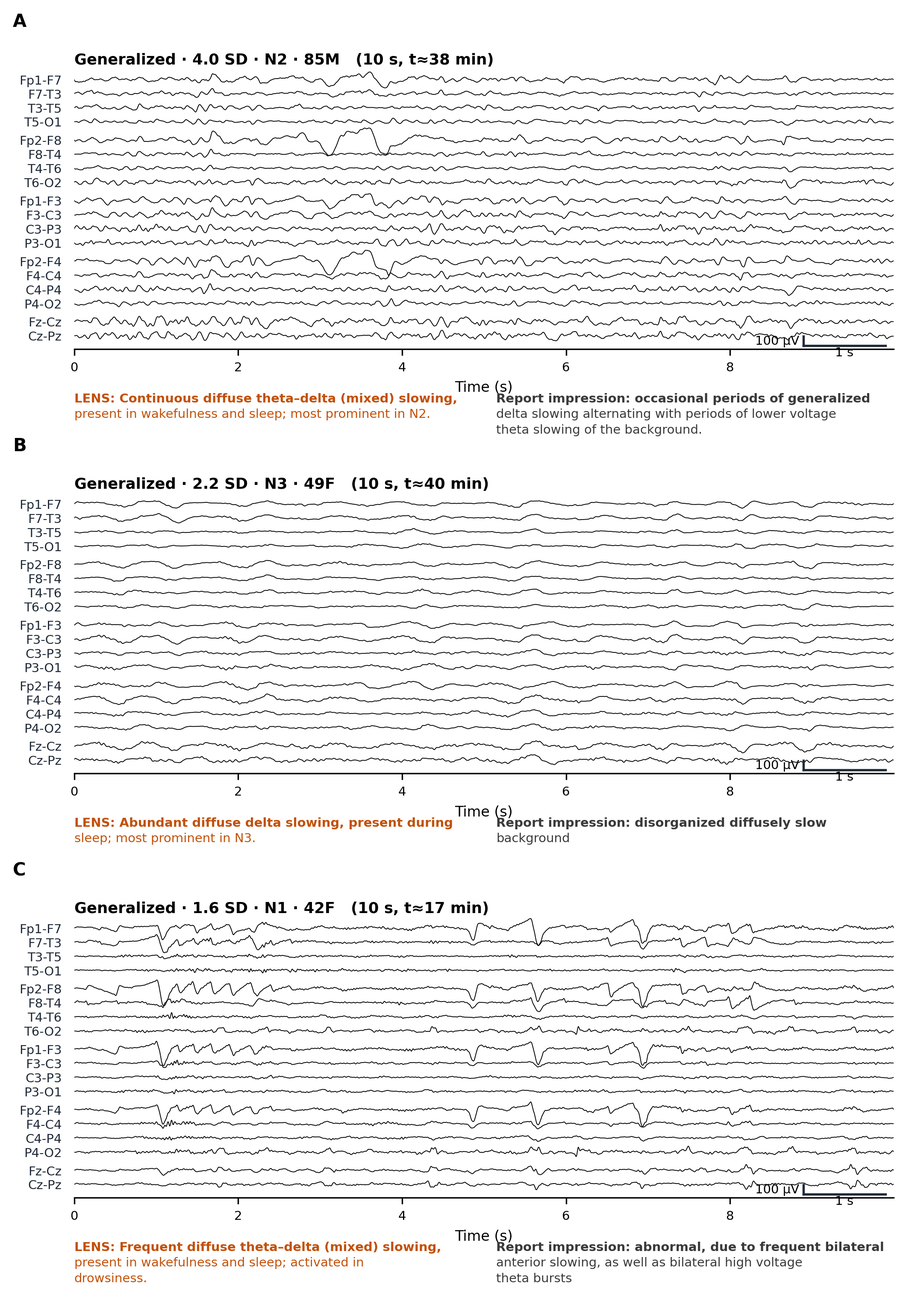
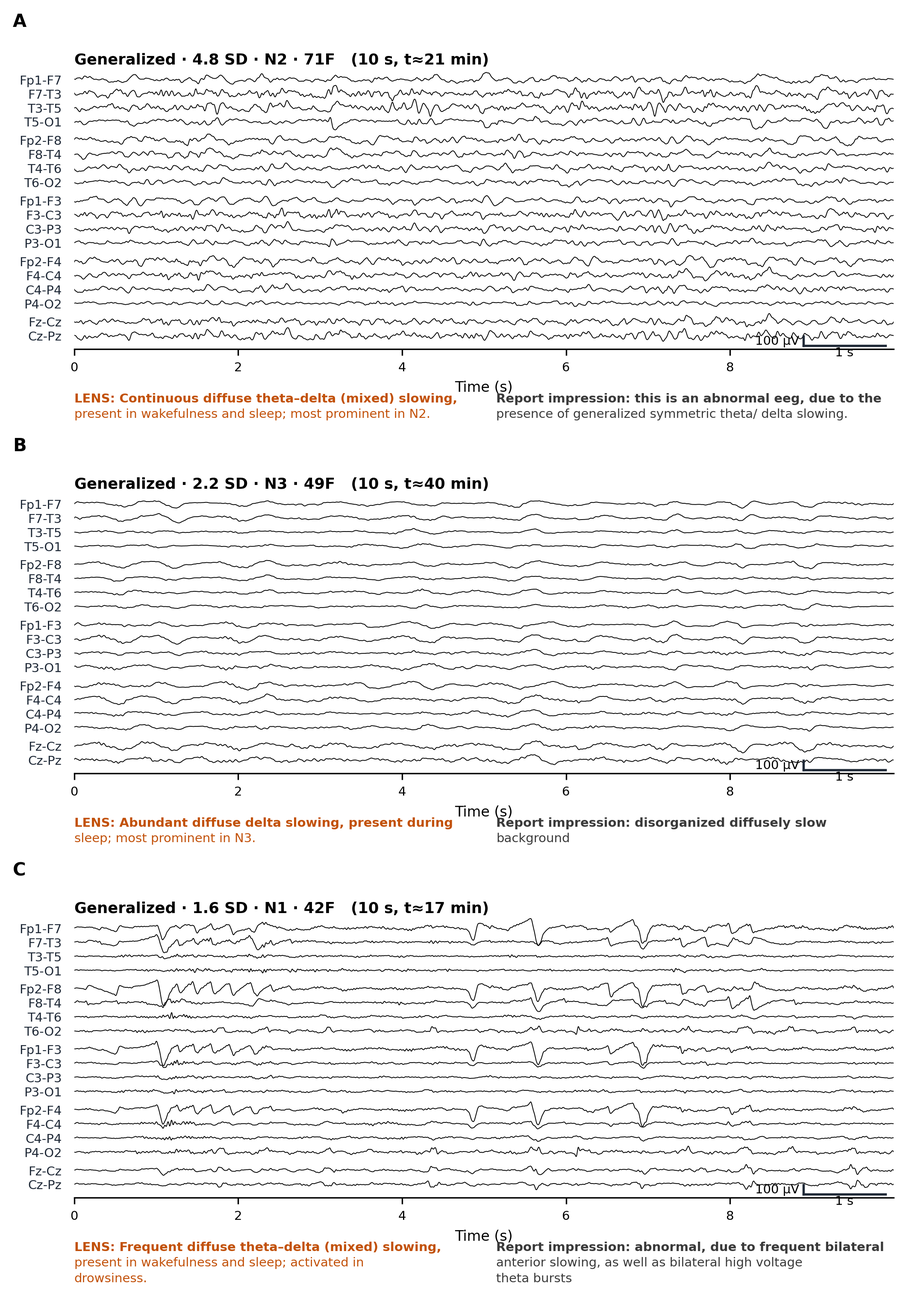
Replace Figure 5A: the old exemplar showed a periodic/rhythmic pattern
Co-author review: Figure 5A read as LRDA or lateralised periodic discharges rather than
diffuse slowing — a distraction in the one figure whose whole job is to show plain
generalized slowing, and something reviewers would object to.

Replaced S0001119160767 (85M, N2, 4.0 SD) with S0001116438689 (71F, N2, 4.8 SD): same
marked band, same dominant stage, and a window that is continuous irregular polymorphic
delta-theta across all chains with no stereotyped repeating waveform. Its report
independently says "generalized SYMMETRIC theta/delta slowing", which corroborates the
trace rather than merely permitting it.

Worth recording why the existing guard missed it. scripts/62 screens candidates for
periodic patterns by REPORT TEXT, and the old recording's report says "occasional PERIODS
of generalized delta slowing" — which matches no \\bperiodic\\b pattern. The give-away was
only ever in the signal. scripts/screen_generalized_exemplars.py now scores the actual
displayed window for rhythmicity, narrowbandness and asymmetry.

I also failed twice to build a score that reproduced the clinical judgement: the obvious
whole-head autocorrelation ranked the flagged panel BETTER than most candidates (the run
is regional and brief, so averaging over 18 channels and 10 seconds hid it), and the
per-channel sliding version then ranked an accepted panel worse than the flagged one. The
script says so in its docstring and is scoped as a shortlisting tool; the choice was made
[…]

Changed region(s): [[0.0934, 0.0312, 0.9962, 0.2499], [0.5604, 0.2812, 0.9651, 0.3436]]

diff --git a/scripts/screen_generalized_exemplars.py b/scripts/screen_generalized_exemplars.py
@@ -1,0 +1,185 @@
+"""Rank candidate GENERALIZED-slowing exemplars by how cleanly the displayed window shows polymorphic
+diffuse slowing rather than a periodic or rhythmic pattern.
+
+Why this exists. Figures 4 and 5 pin their six recordings (scripts/62 `PINNED_EXAMPLES`) so that re-running
+cannot silently swap in different patients mid-revision. The pin bypasses the report-text screen in
+scripts/62, and that screen would not have caught this case anyway: co-author review found Figure 5A showing
+what reads as LRDA or lateralised periodic discharges, while its report says "occasional PERIODS of
+generalized delta slowing" -- which no `\\bperiodic\\b` pattern matches. The give-away is in the SIGNAL, so
+this screens the signal.
+
+Three scores per candidate, all computed on the exact 10-second window scripts/63 would display:
+
+  rhythmicity   max normalised autocorrelation of the whole-head mean over lags 0.25-2.0 s. A stereotyped
+                waveform that repeats -- periodic discharges, rhythmic delta -- scores high; irregular
+                polymorphic slowing scores low. THIS IS THE ONE THAT MATTERS for the complaint.
+  narrowband    fraction of 1-20 Hz power in the single best 1 Hz bin. LRDA/GRDA is narrowband by
+                definition; polymorphic slowing is broad.
+  asymmetry     |left - right| mean log power. A "generalized" exemplar should be near-symmetric; a
+                lateralised pattern is not.
+
+Lower is better on all three. The script ranks and prints; choosing the pin stays a human decision, and the
+chosen id goes into scripts/62 with a comment saying why.
+
+Run: AWS_PROFILE=<profile> PYTHONPATH=src python3 scripts/screen_generalized_exemplars.py [--n 14]
+"""
+from __future__ import annotations
+import argparse
+import importlib.util
+import sys
+from pathlib import Path
+import numpy as np
+import pandas as pd
+
+RES = Path("results/story")
+
+
+def _load(name: str, path: str):
+    spec = importlib.util.spec_from_file_location(name, path)
+    mod = importlib.util.module_from_spec(spec)
+    spec.loader.exec_module(mod)
+    return mod
+
+
+SEG_STEP_S = 14.0            # 15-s window, 14-s step (README canonical facts); verified t_start_s = seg*14
+
+
+def pick_window_from_cache(cache: pd.DataFrame, eid: str, domstage: str) -> float:
+    """The window scripts/63 would display for a GENERALIZED example, computed from the whole-head cache.
+
+    scripts/63.pick_segment reads segment_deviation/, which is published only for the six already-pinned
+    examples -- so a candidate cannot be screened through it. For the generalized branch the rule is just
+    "max whole-head amount within the dominant stage, first hour", and every column that needs is in
+    figure_cache/wholehead_z.parquet. Same rule, same answer, available for any recording.
+    """
+    d = cache[cache.eeg_id == eid]
+    if d.empty:
+        raise FileNotFoundError(f"{eid} not in the whole-head cache")
+    d = d[d.segment * SEG_STEP_S < 3600]
+    amt = d[["z__whole_head__log_delta", "z__whole_head__log_theta", "z__whole_head__log_TAR"]].mean(axis=1)
+    d = d.assign(amt=amt)
+    ds = d[d.stage == domstage]
+    ds = ds if len(ds) else d
+    return float(ds.sort_values("amt", ascending=False).iloc[0].segment * SEG_STEP_S)
+
+
+def rhythmicity(bip: np.ndarray, sr: float, win_s: float = 3.0, hop_s: float = 0.5) -> float:
+    """How much the most affected part of the trace repeats itself.
+
+    The obvious version of this -- autocorrelation of the whole-head mean over the whole window -- does NOT
+    reproduce a reader's judgement, and was checked against the case that prompted the screen. The run in the
+    original Figure 5A is regional (right frontal) and occupies about 4 of the 10 seconds, so averaging over
+    18 channels and 10 seconds diluted it to 0.18 -- BETTER than most of the candidates, which is plainly
+    wrong. A periodic or rhythmic pattern is local in space and in time, so the measure has to be too:
+    autocorrelation per CHANNEL over sliding 3-second sub-windows, then the worst case over both.
+    """
+    lo, hi = int(0.2 * sr), int(2.0 * sr)
+    n = int(win_s * sr)
+    hop = max(1, int(hop_s * sr))
+    best = 0.0
+    for ch in bip:
+        for st in range(0, max(1, len(ch) - n + 1), hop):
+            seg = ch[st:st + n]
+            seg = seg - seg.mean()
+            if seg.size < hi + 2 or not np.any(seg):
+                continue
+            ac = np.correlate(seg, seg, mode="full")[seg.size - 1:]
+            if ac[0] <= 0:
+                continue
+            ac = ac / ac[0]
+            h = min(hi, ac.size - 1)
+            if h > lo:
+                best = max(best, float(np.max(ac[lo:h])))
+    return best
+
+
+def narrowband(bip: np.ndarray, sr: float) -> float:
+    """Fraction of 1-20 Hz power in the best single 1 Hz bin, on the most narrowband channel.
+
+    Per channel for the same reason: LRDA is regional, and averaging hides it.
+    """
+    out = 0.0
+    for ch in bip:
+        x = np.asarray(ch, float) - np.mean(ch)
+        f = np.fft.rfftfreq(len(x), 1 / sr)
+        p = np.abs(np.fft.rfft(x)) ** 2
+        band = (f >= 1) & (f <= 20)
+        if not band.any() or p[band].sum() <= 0:
+            continue
+        best = max(p[(f >= c) & (f < c + 1)].sum() for c in np.arange(1, 20))
+        out = max(out, float(best / p[band].sum()))
+    return out
+
+
+def main() -> int:
+    ap = argparse.ArgumentParser(description=__doc__)
+    ap.add_argument("--n", type=int, default=14, help="candidates to screen (each costs one EDF pull)")
+    ap.add_argument("--band", default="marked", choices=["marked", "moderate", "mild"],
+                    help="which degree slot to fill")
+    args = ap.parse_args()
+
+    m62 = _load("m62", "scripts/62_example_reports_panel.py")
+    m63 = _load("m63", "scripts/63_example_eeg_traces.py")
+
+    BANDS = {"marked": (3.0, 12.0), "moderate": (1.8, 3.0), "mild": (1.0, 1.8)}
+    lo, hi = BANDS[args.band]
+
+    ex = pd.read_parquet(RES / "s4_examples.parquet")
+    pinned = set(ex.eeg_id)
+
+    d, _S, _man, _meta, _stage = m62.candidate_frame()
+    gen = d[(~d.isfoc) & d.gen & (d.slowing_gen_pathologic == True) & (d.slowing_focal != True)]  # noqa: E712
+    gen = gen[(gen.peakz >= lo) & (gen.peakz < hi) & (~gen.eeg_id.isin(pinned))]
+    gen = gen.sort_values("peakz", ascending=False).head(args.n)
+    print(f"screening {len(gen)} exclusively-generalized candidates in the '{args.band}' band "
+          f"(peak z {lo}-{hi}), excluding the six already pinned\n")
+
+    man = pd.read_parquet("data/manifest/report_manifest_v6.parquet").drop_duplicates("eeg_id").set_index("eeg_id")
+    ids = set(gen.eeg_id)
+    cache = pd.read_parquet("data/derived/figure_cache/wholehead_z.parquet",
+                            filters=[("eeg_id", "in", list(ids))],
+                            columns=["eeg_id", "segment", "stage", "z__whole_head__log_delta",
+                                     "z__whole_head__log_theta", "z__whole_head__log_TAR"])
+    print(f"whole-head cache covers {cache.eeg_id.nunique()} of {len(ids)} candidates\n")
+    rows = []
+    for r in gen.itertuples():
+        try:
+            t0 = pick_window_from_cache(cache, r.eeg_id, r.domstage)
+            mono, chs, fs = m63.fetch_window(man.loc[r.eeg_id], t0, r.eeg_id)
+            bip = m63.bipolar(mono, chs, fs)
+        except Exception as e:                                   # noqa: BLE001 - a candidate, not a producer
+            print(f"  {r.eeg_id}  skipped ({type(e).__name__})")
+            continue
+        left = bip[[i for i, c in enumerate(m63.BIPOLAR) if c[0] in "FTCPO" and c.split("-")[0][-1] in "13579"]]
+        right = bip[[i for i, c in enumerate(m63.BIPOLAR) if c.split("-")[0][-1] in "24680"]]
+        rows.append(dict(eeg_id=r.eeg_id, peakz=r.peakz, stage=r.domstage, age=r.age, sex=r.sex,
+                         rhythmicity=rhythmicity(bip, fs), narrowband=narrowband(bip, fs),
+                         asymmetry=abs(np.log(np.mean(left ** 2) + 1e-9) - np.log(np.mean(right ** 2) + 1e-9))))
+        print(f"  {r.eeg_id}  z={r.peakz:.1f}  {r.domstage}  rhythmicity={rows[-1]['rhythmicity']:.3f}  "
+              f"narrowband={rows[-1]['narrowband']:.3f}  asym={rows[-1]['asymmetry']:.2f}")
+
+    if not rows:
+        print("no candidate could be screened (EDF access?)")
+        return 1
+    t = pd.DataFrame(rows)
+    # rank on rhythmicity first -- that is the reviewer's objection -- then narrowband, then asymmetry
+    t["rank"] = t.rhythmicity.rank() + 0.5 * t.narrowband.rank() + 0.25 * t.asymmetry.rank()
+    t = t.sort_values("rank")
+
+    RES.mkdir(parents=True, exist_ok=True)
+    out = RES / f"generalized_exemplar_screen_{args.band}.md"
+    out.write_text(
+        f"# Generalized exemplar screen — '{args.band}' slot\n\n"
+        "Lower is better on every column. `rhythmicity` is the max normalised autocorrelation of the "
+        "whole-head mean over lags 0.25–2.0 s, i.e. how much the displayed window repeats itself; it is the "
+        "score that separates a periodic or rhythmic pattern from polymorphic slowing. `narrowband` is the "
+        "fraction of 1–20 Hz power in the best 1 Hz bin (LRDA/GRDA is narrowband). `asymmetry` is "
+        "|left − right| mean log power.\n\n"
+        + t.drop(columns=["rank"]).to_markdown(index=False, floatfmt=".3f") + "\n")
+    print(f"\nwrote {out}")
+    print("\nbest three:\n" + t.head(3).to_string(index=False))
+    return 0
+
+
+if __name__ == "__main__":
+    sys.exit(main())

diff --git a/scripts/62_example_reports_panel.py b/scripts/62_example_reports_panel.py
@@ -39,7 +39,17 @@ PINNED_EXAMPLES = (
     "S0001112857553_20160206081631",   # focal, marked
     "S0001120133802_20120917122010",   # focal, moderate
     "S0002118633403_20191203074129",   # focal, mild
-    "S0001119160767_20190930133101",   # generalized, marked
+    # Was S0001119160767_20190930133101 (generalized, marked, N2, 85M). Replaced 2026-08-27 on co-author
+    # review: its displayed window shows a right-frontal-predominant rhythmic run that reads as LRDA or
+    # lateralised periodic discharges rather than diffuse slowing, which is a distraction in the one figure
+    # whose job is to show plain generalized slowing. Note the report-text screen below could never have
+    # caught it -- that report says "occasional PERIODS of generalized delta slowing", which matches no
+    # \bperiodic\b pattern. The give-away is in the signal, so the replacement was chosen by screening the
+    # actual displayed window (scripts/screen_generalized_exemplars.py) and then looking at the traces.
+    # This one: same marked band (4.8 SD), same N2 dominant stage, continuous irregular polymorphic
+    # delta-theta across all chains, symmetric, no stereotyped repeating waveform -- and its report
+    # independently says "generalized SYMMETRIC theta/delta slowing".
+    "S0001116438689_20121214164651",   # generalized, marked
     "S0002114400117_20220102134116",   # generalized, moderate
     "S0002119199989_20170830132221",   # generalized, mild
 )
@@ -56,7 +66,7 @@ EXCLUDE = re.compile(r"\b(medication|treatment|administered|history|reason for|h
                      r"propofol|clobazam|lamotrigine|phenobarbital|phenytoin|lacosamide|keppra|levetiracetam)\b", re.I)
 # leading report boilerplate to strip so a snippet never reads "Report impression: final report impression: ..."
 BOILER = re.compile(r"^\s*(\*+\s*final report\s*\*+|final report impression|final impression|summary impression|"
-                    r"final correlation|clinical correlation|final report|impression|report)\s*[:\-.]*\s*", re.I)
+                    r"final correlation|clinical correlation|final report|impression|description|detail|report)\s*[:\-.]*\s*", re.I)
 
 
 def _strip_boiler(s: str) -> str:
@@ -184,7 +194,14 @@ def report_structured(r):
     return "; ".join(parts) if parts else "slowing (unspecified)"
 
 
-def main():
+def candidate_frame():
+    """The screened pool of candidate exemplars, and the frames the caller needs alongside it.
+
+    Extracted verbatim out of main() so it can be reused -- scripts/screen_generalized_exemplars.py
+    ranks candidates for a replacement pin from exactly the pool this figure draws from, rather than
+    from a second, subtly different one. No logic changed in the move; scripts/62's output is
+    byte-identical across the refactor.
+    """
     FIG.mkdir(parents=True, exist_ok=True); RES.mkdir(parents=True, exist_ok=True)
     R = pd.read_parquet("data/derived/description_recording.parquet")
     S = pd.read_parquet("data/derived/description_stage.parquet")
@@ -224,6 +241,11 @@ def main():
             return True
         return not PERIODIC.search(str(man.report_impression.get(eid, "")) + " " + str(man.report_text.get(eid, "")))
     d = d[d.eeg_id.map(_no_periodic)]
+    return d, S, man, meta, stage_map
+
+
+def main():
+    d, S, man, meta, stage_map = candidate_frame()
 
     # --- pick 6 CONCORDANT examples (our field agrees slowing is present), 3 focal + 3 generalized,
     #     spanning degree (marked/moderate/mild) and DIFFERENT dominant sleep stages ---

diff --git a/scripts/63_example_eeg_traces.py b/scripts/63_example_eeg_traces.py
@@ -130,10 +130,42 @@ def plot_panel(ax, data, sr, title, hl=()):
     ax.text(x0 - 0.05, y0 + 50, "100 µV", ha="right", va="center", fontsize=7)
 
 
+SEG_STEP_S = 14.0                       # 15-s window, 14-s step; t_start_s == segment * 14 (verified)
+_WH_CACHE = "data/derived/figure_cache/wholehead_z.parquet"
+
+
+def _pick_generalized_from_cache(eid, domstage):
+    """Max whole-head amount in the dominant stage, first hour -- from the cache. None if unavailable."""
+    if not os.path.exists(_WH_CACHE):
+        return None
+    cols = ["segment", "stage"] + AMT_Z
+    d = pd.read_parquet(_WH_CACHE, filters=[("eeg_id", "==", eid)], columns=cols)
+    if d.empty:
+        return None
+    d = d[d.segment * SEG_STEP_S < 3600]
+    have = [c for c in AMT_Z if c in d.columns]
+    if not have or d.empty:
+        return None
+    d = d.assign(amt=d[have].mean(axis=1))
+    ds = d[d.stage == domstage]
+    ds = ds if len(ds) else d
+    return float(ds.sort_values("amt", ascending=False).iloc[0].segment * SEG_STEP_S)
+
+
 def pick_segment(eid, domstage, region=None):
     """Display window = where the finding is clearest. FOCAL: the segment where the CLAIMED region's slowing
     peaks (so the plotted window matches the label, not an off-region/artefact whole-head max — QC 2026-07-19).
     GENERALIZED: the max whole-head amount. Restricted to the dominant stage, first hour."""
+    if region is None:
+        # GENERALIZED: the rule is "max whole-head amount in the dominant stage, first hour", and every
+        # column that needs is in figure_cache/wholehead_z.parquet -- which the figure-loop tier already
+        # ships for every recording. So a generalized example needs NO per-recording segment_deviation
+        # partition, and swapping one in costs nothing to publish. Verified equivalent: for all three
+        # generalized examples that have both sources, the two paths choose the identical window
+        # (t0 = 2254.0 / 2408.0 / 1036.0 s).
+        t0 = _pick_generalized_from_cache(eid, domstage)
+        if t0 is not None:
+            return t0
     f = f"{DEV}/eeg_id={eid}/part.parquet"
     if not os.path.exists(f):
         # Returning None here silently changed which 10-s window got plotted: fetch_window falls back to a

diff --git a/scripts/certify_reproducibility.py b/scripts/certify_reproducibility.py
@@ -48,6 +48,8 @@ CLASSIFIED = {
     "sandor100_": "prefix of sandor100_external_validation / sandor100_stage_extract, both in the runner",
     "assemble_manuscript_figures": "stage 5 - composits committed figures for the docx, produces no new result",
     "verify_fresh_install": "a VERIFIER, not a producer - re-runs every producer with only git + S3 and diffs",
+    "screen_generalized_exemplars": "a SELECTION tool - ranks candidate Figure 5 exemplars so a pin can be "
+                                    "chosen; run by hand when an example is challenged, not part of the build",
     "certify_reproducibility": "this script",
 }
 

diff --git a/docs/manuscript_draft.md b/docs/manuscript_draft.md
@@ -324,7 +324,7 @@ reference, crimson report-slowing/abnormal.*
 
 - **Figure 4 --- Focal slowing: what LENS says, beside what the EEG shows and what the clinician wrote.** Three recordings with exclusively focal slowing, spanning degree (5.1, 2.9 and 1.9 SD above the matched normal) and vigilance state (W, N1, REM). Each shows an actual 10-second longitudinal-bipolar segment (1--30 Hz band-pass, 60 Hz notch; calibration bar 100 µV and 1 s), with the derivations containing the electrode LENS names as maximal tinted, so the claim can be checked against the trace. Beneath each: LENS's one-line finding (orange) beside the *impression* sentence of the clinical report (grey), both verbatim and de-identified. The displayed window is the segment where deviation at the claimed region peaks within the dominant sleep stage --- an illustrative peak, not a typical epoch. Examples are restricted to clearly lateralized recordings (|left − right asymmetry| ≥ 1.5 SD) so the displayed segment reliably matches the localization. LENS's full generated paragraph and the report's full description sentences, for all six examples, are **Table S4**.
 
-- **Figure 5 --- Generalized slowing: what LENS says, beside what the EEG shows and what the clinician wrote.** As Figure 4, for three recordings with exclusively generalized slowing (4.0, 2.2 and 1.6 SD); the displayed window is the segment of highest whole-head deviation, and no derivations are tinted because a diffuse finding has no single site to point at. Splitting the six examples across two page-width figures is what keeps the traces and the report text legible in print; a combined 3 × 2 grid did not.
+- **Figure 5 --- Generalized slowing: what LENS says, beside what the EEG shows and what the clinician wrote.** As Figure 4, for three recordings with exclusively generalized slowing (4.8, 2.2 and 1.6 SD); the displayed window is the segment of highest whole-head deviation, and no derivations are tinted because a diffuse finding has no single site to point at. Examples are additionally screened so that the displayed window shows **polymorphic** diffuse slowing and not a periodic or rhythmic pattern (LRDA, GRDA, periodic discharges), which belong to the ictal--interictal continuum rather than to background slowing; `scripts/screen_generalized_exemplars.py` scores candidate windows for that and the chosen traces were then read. Splitting the six examples across two page-width figures is what keeps the traces and the report text legible in print; a combined 3 × 2 grid did not.
 
 - **Figure 6 --- The description tracks the report, by contrast rather than by classification.** **(A)** Laterality and region. Left: the signed left-minus-right asymmetry z of the deviation field, split by the side the report names (+ = left). Violins are the distribution (kernel density on the central 1--99th percentile); the point and bar are the mean with a bootstrap 95% CI --- the estimate the contrast is about, shown because a violin alone understates a shift in location. Right: lobe focality (a lobe's prominence above the mean of the other two) as the difference between recordings whose report names that lobe and recordings whose report names a different one; the bar is the mean difference and the error bar its bootstrap 95% CI; \*\*\* is p < 10⁻³ (Mann--Whitney). n per group is on the axis, and the same key is printed in the figure. **(B)** Sleep stage. Left: mean fraction of segments flagged abnormal per stage, for recordings whose report names slowing versus clean-normals --- the gap holds at every stage, wake and sleep. Right: median delta- and theta-excess deviation z per stage among report-slowing recordings.
 

diff --git a/docs/review/comment_tracker.md b/docs/review/comment_tracker.md
@@ -185,6 +185,7 @@ repo, and should be pushed upstream.
 | R2-61 | manuscript checker | "spatial stability" appears in §3.4a's focal feature list but not §2.7a's; k attributed to two different splits; "band determination is near-chance" against a standard §3.7 does not apply to itself; "above most of the panel on both axes" is ON-100 only | done | all four corrected |
 | R2-62 | figure checker | Grey was both the van Putten index curve and the expert operating points **inside the same axes** in Figure S3 — the method and the humans were indistinguishable | done | the van Putten family gets its own hue (dark ochre); grey is now only ever "experts / reference" |
 | R2-63 | figure checker | The Fig 1B/S4-vs-S5 n discrepancy was explained in the captions, which the reviewer never sees — it reads images | done | the reason (source-appropriate vs pooled) is now printed **in** both figures, not only in the captions |
+| R2-64 | Westover | **Figure 5A showed what reads as LRDA or lateralised periodic discharges**, not plain generalized slowing — a pattern reviewers would object to | done | Pin replaced: S0001119160767 (85M, N2, 4.0 SD) → **S0001116438689** (71F, N2, 4.8 SD), same marked band and same dominant stage, whose window is continuous irregular polymorphic delta–theta across all chains, symmetric, with no stereotyped repeating waveform — and whose report independently says "generalized **symmetric** theta/delta slowing". Note the existing report-text screen could not have caught the old one: its report says "occasional **periods** of generalized delta slowing", which matches no `\bperiodic\b` pattern. New tool `scripts/screen_generalized_exemplars.py` scores candidate windows for rhythmicity, narrowbandness and asymmetry to shortlist; the final choice was made by reading the traces, because the scores alone did not reproduce a clinician's judgement (recorded honestly in that script's docstring) |
 | R2-45 | figure checker | Figure 1B/S4 and Figure S5 report per-stage n that differ tenfold for the same cohort (N2 817 vs 7,823) | done | Real and explainable: Figure 1B applies the source-appropriate rule (wake from routine, sleep from overnight, never pooled, because ratio features are not comparable across acquisition types) and Figure S5 does not. Stated in both captions. **Whether S5 should apply the same restriction is an author call** — it would change a committed supplementary figure |
 
 ## Still open after round 2

diff --git a/results/story/generalized_exemplar_screen_marked.md b/results/story/generalized_exemplar_screen_marked.md
@@ -1,0 +1,20 @@
+# Generalized exemplar screen — 'marked' slot
+
+Lower is better on every column. `rhythmicity` is the max normalised autocorrelation of the whole-head mean over lags 0.25–2.0 s, i.e. how much the displayed window repeats itself; it is the score that separates a periodic or rhythmic pattern from polymorphic slowing. `narrowband` is the fraction of 1–20 Hz power in the best 1 Hz bin (LRDA/GRDA is narrowband). `asymmetry` is |left − right| mean log power.
+
+| eeg_id                        |   peakz | stage   |    age | sex   |   rhythmicity |   narrowband |   asymmetry |
+|:------------------------------|--------:|:--------|-------:|:------|--------------:|-------------:|------------:|
+| S0001119660864_20141028082300 |   5.124 | REM     | 20.245 | F     |         0.184 |        0.166 |       0.005 |
+| S0001113817447_20170330145511 |   4.776 | REM     | 26.327 | F     |         0.166 |        0.306 |       0.062 |
+| S0001116438689_20121214164651 |   4.821 | N2      | 71.652 | F     |         0.127 |        0.380 |       0.252 |
+| S0001113272528_20130526132113 |   4.483 | N1      | 18.663 | M     |         0.154 |        0.456 |       0.200 |
+| S0001117341958_20110719122822 |   4.946 | N1      | 23.943 | M     |         0.278 |        0.391 |       0.010 |
+| S0001114726165_20190318091010 |   4.318 | N1      | 70.338 | F     |         0.308 |        0.301 |       0.040 |
+| S0001111814286_20121215093458 |   4.454 | N1      | 68.012 | M     |         0.258 |        0.464 |       0.090 |
+| S0002119275281_20211018103614 |   5.338 | N1      | 21.250 | F     |         0.351 |        0.353 |       0.023 |
+| S0001122160238_20140610085412 |   4.755 | REM     | 41.495 | M     |         0.293 |        0.457 |       0.189 |
+| S0001111660564_20160312100552 |   4.679 | N3      | 18.254 | F     |         0.314 |        0.495 |       0.035 |
+| S0001113387670_20140813102248 |   5.087 | REM     | 15.996 | M     |         0.342 |        0.438 |       0.214 |
+| S0001117649228_20110425082200 |   4.339 | REM     | 52.412 | F     |         0.388 |        0.559 |       0.067 |
+| S0001118304878_20210923162047 |   4.694 | N1      | 62.987 | F     |         0.507 |        0.470 |       0.167 |
+| S0002114621377_20150224105301 |   5.580 | REM     | 31.205 | F     |         0.697 |        0.577 |       0.009 |

diff --git a/results/story/s4_examples.md b/results/story/s4_examples.md
@@ -23,11 +23,11 @@ LENS's BRIEF finding line and FULL report paragraph (governed by docs/claims_tab
 - Report description: over the left hemisphere, there is moderate amplitude left temporo-parietal delta/theta slowing which rarely form fluctuating semi-rhythmic activity…intermittent drowsiness is characterized by attenuation of the background, slow roving eye movements and bilateral slowing in the theta and delta range, l>>r.  
 - Report (structured): focal slowing, left temporal (mixed)
 
-**Case 4 — Generalized slowing · peak 4.0 SD (>99.9th centile) · prominent in N2 · 85M**  
+**Case 4 — Generalized slowing · peak 4.8 SD (>99.9th centile) · prominent in N2 · 71F**  
 - LENS (brief): Continuous diffuse theta–delta (mixed) slowing, present in wakefulness and sleep; most prominent in N2.  
-- Report impression: occasional periods of generalized delta slowing alternating with periods of lower voltage theta slowing of the background.  
-- LENS (full): Diffuse theta–delta (mixed) slowing. Peak deviation 4.0 SD above the age- and stage-matched normal (>99.9th centile), abnormal in 100% of analysed segments (continuous); longest continuous run ≈26.6 min over 1 episode. Present in wakefulness and sleep; most prominent in N2.  
-- Report description: there is frequent 3-5 hz generalized slowing in the 60-100 uv range  
+- Report impression: this is an abnormal eeg, due to the presence of generalized symmetric theta/ delta slowing.  
+- LENS (full): Diffuse theta–delta (mixed) slowing. Peak deviation 4.8 SD above the age- and stage-matched normal (>99.9th centile), abnormal in 100% of analysed segments (continuous); longest continuous run ≈24.3 min over 1 episode. Present in wakefulness and sleep; most prominent in N2.  
+- Report description: the resting background showed generalized symmetric theta/ delta slowing with an amplitude up to 100 hz.  
 - Report (structured): generalized slowing (mixed)
 
 **Case 5 — Generalized slowing · peak 2.2 SD (99th centile) · prominent in N3 · 49F**  
